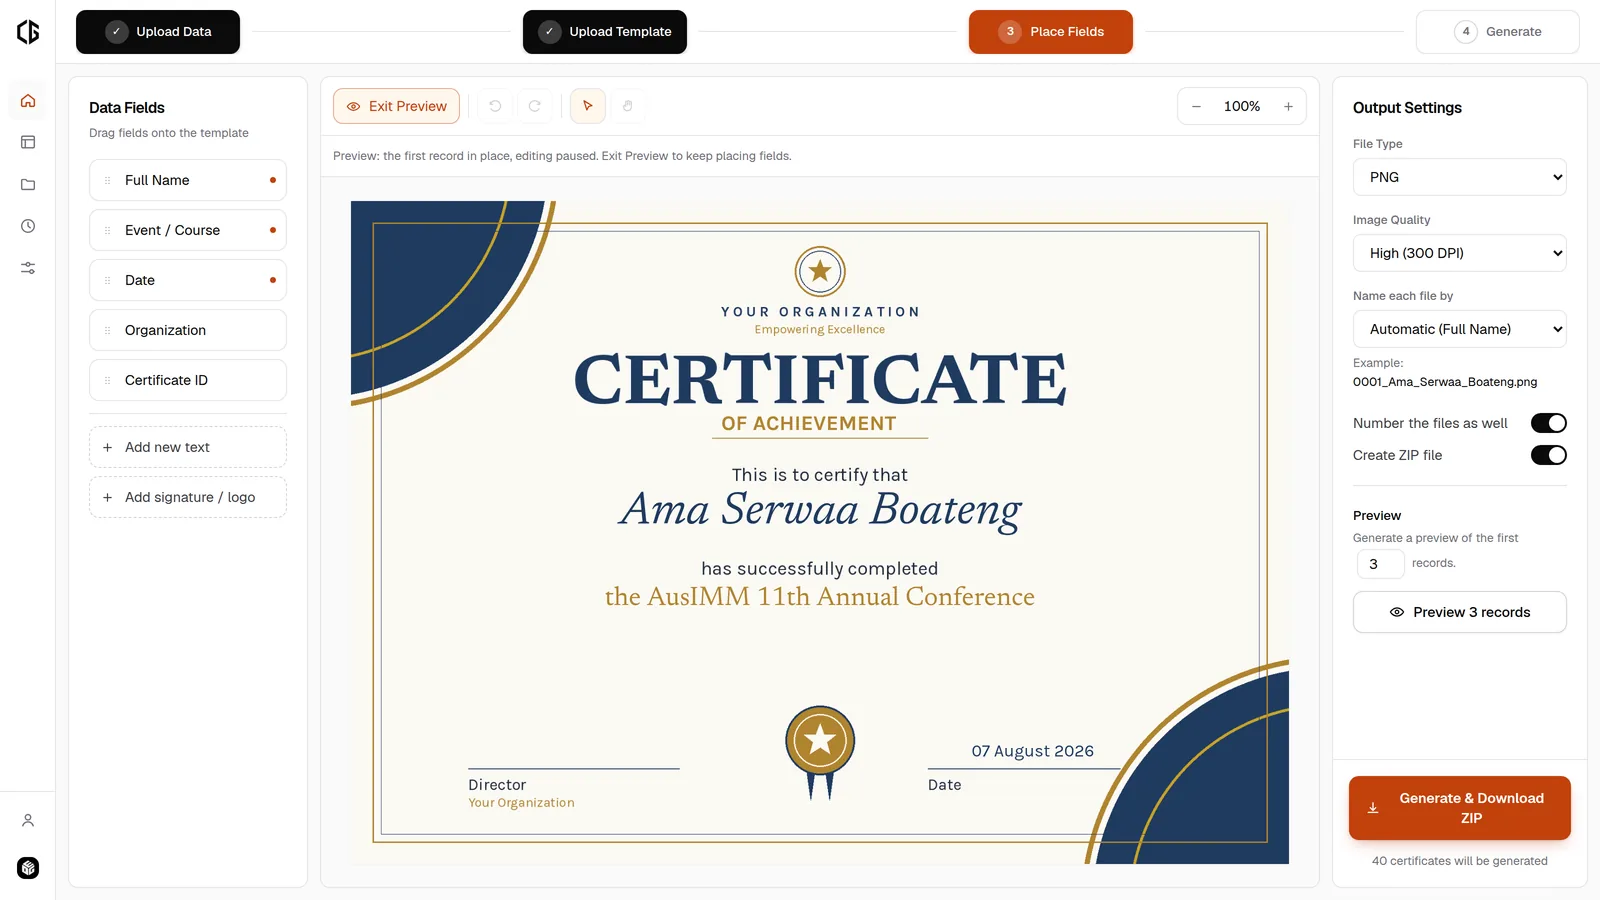
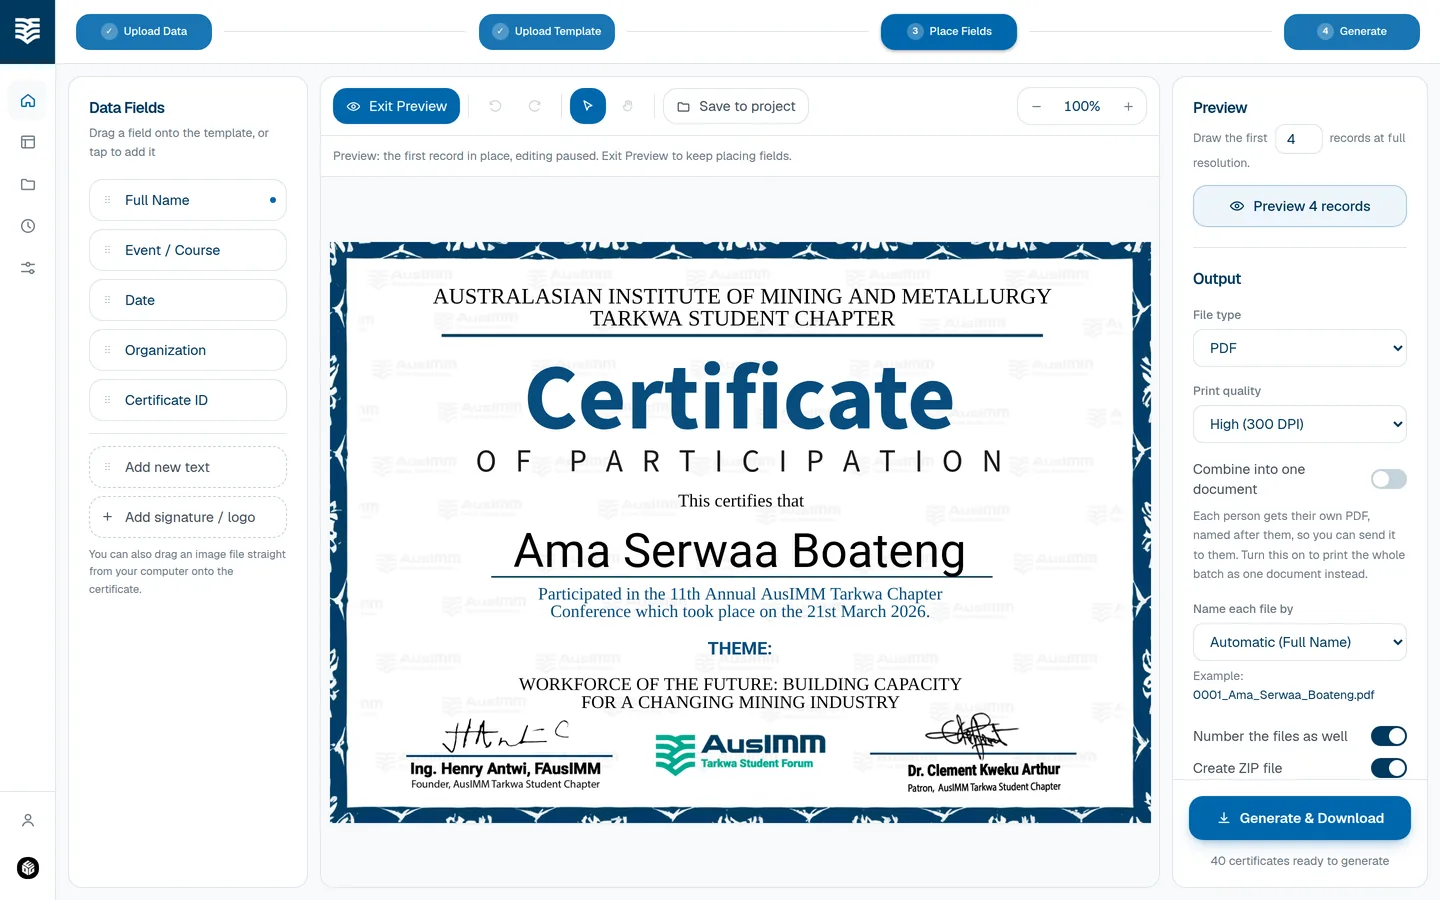
Projects: CertiBatch becomes the AusIMM Certificate Studio
The project shipped a second time, as the chapter's own tool rather than a
general one, and the page had not caught up: it still showed the generic
build's screenshots and told the story as if it ended with a web app.

Content now leads with the AusIMM edition — the chapter's branding, their two
real certificate designs taken apart from the original Photoshop files so
every line is editable, a shared chapter code instead of accounts, and the
half-hour idle lock that a shared computer needs. Two new sections cover that
and the output work: PDF is the default because on a 500-person batch it is
both the fastest to produce and the smallest to send, 1.9 minutes and 300 MB
against 7.2 minutes and 707 MB for PNG, with the whole batch as one printable
document at 6 seconds and 1 MB.

All four screenshots retaken from the chapter build.

Both links are kept and labelled: the chapter's studio as the real deliverable,
noted as opening with the chapter's code, and the open version so a reader can
actually use one. The page stays at /case-studies/certibatch so nothing already
shared breaks.

Rendered and checked in a browser: build.js exits 0, every image loads, no
failed requests.

Claude-Session: https://claude.ai/code/session_01TRv75KVh2YPb1V3Kq5Uc7z

diff --git a/case-studies/certibatch.html b/case-studies/certibatch.html
@@ -3,8 +3,8 @@
 <head>
   <meta charset="UTF-8" />
   <meta name="viewport" content="width=device-width, initial-scale=1.0" />
-  <title>CertiBatch, Bulk Certificate Generation, Edwin Gyasi Owusu</title>
-  <meta name="description" content="CertiBatch: a web app that turns a spreadsheet and a certificate design into hundreds of personalised, print-ready certificates, built for the AusIMM Tarkwa Student Chapter." />
+  <title>AusIMM Certificate Studio, Edwin Gyasi Owusu</title>
+  <meta name="description" content="A web app that turns a spreadsheet and a certificate design into hundreds of personalised, print-ready certificates, built for and branded to the AusIMM Tarkwa Student Chapter." />
 
   <link rel="canonical" href="https://edwingyasi.me/case-studies/certibatch" />
 
@@ -15,15 +15,15 @@
   <meta property="og:type" content="article" />
   <meta property="og:site_name" content="Edwin Gyasi Owusu" />
   <meta property="og:url" content="https://edwingyasi.me/case-studies/certibatch" />
-  <meta property="og:title" content="CertiBatch, Bulk Certificate Generation" />
-  <meta property="og:description" content="CertiBatch: a web app that turns a spreadsheet and a certificate design into hundreds of personalised, print-ready certificates, built for the AusIMM Tarkwa Student Chapter." />
+  <meta property="og:title" content="AusIMM Certificate Studio" />
+  <meta property="og:description" content="A web app that turns a spreadsheet and a certificate design into hundreds of personalised, print-ready certificates, built for and branded to the AusIMM Tarkwa Student Chapter." />
   <meta property="og:image" content="https://edwingyasi.me/images/og/certibatch.jpg" />
   <meta property="og:image:width" content="1200" />
   <meta property="og:image:height" content="630" />
-  <meta property="og:image:alt" content="CertiBatch, Bulk Certificate Generation" />
+  <meta property="og:image:alt" content="AusIMM Certificate Studio" />
   <meta name="twitter:card" content="summary_large_image" />
-  <meta name="twitter:title" content="CertiBatch, Bulk Certificate Generation" />
-  <meta name="twitter:description" content="CertiBatch: a web app that turns a spreadsheet and a certificate design into hundreds of personalised, print-ready certificates, built for the AusIMM Tarkwa Student Chapter." />
+  <meta name="twitter:title" content="AusIMM Certificate Studio" />
+  <meta name="twitter:description" content="A web app that turns a spreadsheet and a certificate design into hundreds of personalised, print-ready certificates, built for and branded to the AusIMM Tarkwa Student Chapter." />
   <meta name="twitter:image" content="https://edwingyasi.me/images/og/certibatch.jpg" />
 
   <link rel="preload" href="/fonts/clash-display-var.woff2" as="font" type="font/woff2" crossorigin />
@@ -143,79 +143,96 @@
     <div class="wrap">
       <div class="cs-header">
         <div class="cs-cat"><span class="pin"></span> Web Applications &amp; Automation</div>
-        <h1 class="cs-title">CertiBatch, Bulk Certificate Generation for Events</h1>
-        <p class="cs-lede">Built during my tenure as Public Relations Officer of the Australasian Institute of Mining and Metallurgy (AusIMM) Tarkwa Student Chapter. Our 11th Annual Conference needed over 500 personalised certificates, so I wrote a Python tool to produce them, then rebuilt that tool as a web app so the next PRO never has to write code at all.</p>
+        <h1 class="cs-title">AusIMM Certificate Studio, Bulk Certificate Generation for Events</h1>
+        <p class="cs-lede">Built during my tenure as Public Relations Officer of the Australasian Institute of Mining and Metallurgy (AusIMM) Tarkwa Student Chapter. Our 11th Annual Conference needed over 500 personalised certificates, so I wrote a Python tool to produce them, then rebuilt it as a web app carrying the chapter's own branding and certificate designs, so the next PRO never has to write code at all.</p>
       </div>
 
       <div class="cs-meta">
         <div class="cell"><div class="k">Role</div><div class="v">Architect, Designer &amp; Developer (AI‑assisted)</div></div>
         <div class="cell"><div class="k">Context</div><div class="v">AusIMM Tarkwa Student Chapter, PRO</div></div>
-        <div class="cell"><div class="k">Scale</div><div class="v">500+ certificates per event</div></div>
+        <div class="cell"><div class="k">Scale</div><div class="v">500 certificates in under 2 minutes</div></div>
         <div class="cell"><div class="k">Status</div><div class="v">Live, in use</div></div>
       </div>
 
       <div class="cs-hero-img">
-        <img src="/images/certibatch/hero.webp" alt="CertiBatch field placement screen, showing a certificate previewed with a real student's name and event" loading="lazy" />
+        <img src="/images/certibatch/hero.webp" alt="The chapter's certificate studio, previewing a participation certificate with a real attendee's name in place" loading="lazy" />
       </div>
 
       <div class="cs-body">
-        <p>Live at <a href="https://bulk-cert-generator.vercel.app" target="_blank" rel="noopener">bulk-cert-generator.vercel.app</a>. Source on <a href="https://github.com/Eddywin-bit/Bulk-Cert-Generator-" target="_blank" rel="noopener">GitHub</a>.</p>
+        <p>Live at <a href="https://bulk-cert-generator-7lt8.vercel.app" target="_blank" rel="noopener">the chapter's studio</a>, which opens with the chapter's code. An open version anyone can try, with sample data and designs built in, is at <a href="https://bulk-cert-generator.vercel.app" target="_blank" rel="noopener">bulk-cert-generator.vercel.app</a>. Source on <a href="https://github.com/Eddywin-bit/Bulk-Cert-Generator-" target="_blank" rel="noopener">GitHub</a>.</p>
         <h2>The problem</h2>
         <p>Every conference ends the same way. The talks finish, the photographs are taken, and someone has to produce a certificate for every person who attended. For the AusIMM Tarkwa Student Chapter's 11th Annual Conference, that was <strong>over 500 certificates</strong>, each carrying a different name, and all of them needed before students went home.</p>
         <p>Doing that by hand is not a small job, it is an impossible one. Editing a design file 500 times introduces mistakes into exactly the artefact nobody should get wrong: a person's name on a document they will keep.</p>
         <p>So I wrote a Python script. It read a spreadsheet, drew each name onto the certificate design, and wrote out the files. It worked, and the conference had its certificates.</p>
-        <p>To be clear about how it was built: the Python was written with AI coding tools rather than by hand. I can read and adapt code, but I am not a developer by training. That changed how fast the code appeared, not what had to be decided, and the deciding is what the rest of this page is about.</p>
+        <p>To be clear about how it was built: the code was written with AI coding tools rather than by hand. I can read and adapt code, but I am not a developer by training. That changed how fast the code appeared, not what had to be decided, and the deciding is what the rest of this page is about.</p>
         <div class="callout">
           <div class="lbl">The part that actually needed solving</div>
           <p>The script was the easy half. The hard half is that the script only works if the person holding it can write Python, and the chapter elects a new PRO every year.</p>
         </div>
         <h2>Why a script was the wrong deliverable</h2>
         <p>A one-off script solves one event. The next PRO inherits a file they cannot read, for a design that has changed, with column headings that no longer match. In practice they do not inherit a tool at all, they inherit the same problem and a reason to feel bad about it.</p>
-        <p>So I rebuilt it as <strong>CertiBatch</strong>: the same job, delivered as something an organiser can use without knowing what a script is.</p>
+        <p>So I rebuilt it as a web app: the same job, delivered as something an organiser can use without knowing what a script is. Then I built a second edition of it that belongs to the chapter rather than to me.</p>
         <h2>What it does</h2>
         <p>Four steps, and nothing in between that needs explaining.</p>
         <ul>
           <li><strong>Upload data.</strong> A CSV or Excel file, one row per certificate. Column headings are matched loosely, so a heading typed Full Name, full name or FULL_NAME all resolves to the same field, and the spreadsheet is shown back as a preview so mistakes surface before 500 files are made.</li>
-          <li><strong>Upload template.</strong> Any PNG or JPG design, or one of the built-in certificate layouts.</li>
+          <li><strong>Pick a design.</strong> One of the chapter's own certificates, or any PNG or JPG artwork for a one-off event.</li>
           <li><strong>Place fields.</strong> Drag each column onto the artwork, set the typeface, size and colour, and preview it with a real record so you see the finished certificate rather than a placeholder.</li>
-          <li><strong>Generate.</strong> Every certificate is rendered at print resolution and packaged as a ZIP, each file named after the person on it.</li>
+          <li><strong>Generate.</strong> Every certificate is rendered at print resolution and arrives named after the person on it.</li>
         </ul>
         <div class="shots">
           <figure>
-            <div class="frame"><img src="/images/certibatch/screen-data.webp" alt="CertiBatch data upload, showing the spreadsheet preview in a cell grid" loading="lazy" /></div>
-            <figcaption>Uploaded data shown back before anything is generated</figcaption>
+            <div class="frame"><img src="/images/certibatch/screen-templates.webp" alt="The chapter's certificate designs in the template gallery" loading="lazy" /></div>
+            <figcaption>The chapter's own certificates, ready to use</figcaption>
           </figure>
           <figure>
-            <div class="frame"><img src="/images/certibatch/screen-templates.webp" alt="CertiBatch template gallery with ready-made certificate designs" loading="lazy" /></div>
-            <figcaption>Built-in designs, or bring your own artwork</figcaption>
+            <div class="frame"><img src="/images/certibatch/screen-data.webp" alt="Uploaded spreadsheet shown back as a grid before anything is generated" loading="lazy" /></div>
+            <figcaption>The data shown back before 500 files are made</figcaption>
           </figure>
           <figure>
-            <div class="frame"><img src="/images/certibatch/screen-place.webp" alt="CertiBatch field placement screen with draggable data fields on the certificate" loading="lazy" /></div>
+            <div class="frame"><img src="/images/certibatch/screen-place.webp" alt="Field placement screen with draggable data fields on the chapter certificate" loading="lazy" /></div>
             <figcaption>Placing fields once, for the whole batch</figcaption>
           </figure>
         </div>
+        <h2>Making it the chapter's own</h2>
+        <p>The general tool works for anybody, which is precisely why it does not feel like it belongs to the chapter. The second edition carries their colours, their logo and their certificates, and three decisions came out of that.</p>
+        <p><strong>The chapter's real certificates are in it, and they are editable.</strong> Both designs were taken apart from the original Photoshop files, so every line of text is a field with the same typeface, size and letter-spacing the designer chose, and only the signatures and the frame are baked into the artwork. That matters for the line nobody thinks about until the year turns: the conference theme. It is a field, so next year's PRO sets this year's theme instead of asking a designer for a new file.</p>
+        <p><strong>There is no sign-up, only a chapter code.</strong> Accounts would mean holding personal data, and a chapter that elects new officers every year does not want an account tied to whoever set it up. One code opens the tool, and it is handed to the office rather than to a person. The code is never compared in the browser, because a string checked in front-end code ships inside the page where anyone can read it, and a lock like that only looks like a lock. It is verified server-side, so nothing checkable ever reaches the client.</p>
+        <p><strong>It locks itself after half an hour unused.</strong> The site carries the chapter's logo, so a tab left open on a shared computer is enough for a stranger to produce something that looks official. A batch still running counts as the tool being in use, so nobody is locked out of a download they are waiting for.</p>
         <h2>The engineering problem underneath</h2>
         <p>The interesting constraint is that the browser and the server have to agree about a certificate neither of them can see at the same size.</p>
         <p>The editor shows the design scaled down to fit a laptop screen. The server renders it at full print resolution, often several thousand pixels across. If field positions were stored as screen pixels, every certificate would print with the text in the wrong place.</p>
-        <p>So <strong>positions are stored as fractions of the artwork</strong>, from 0 to 1, and never as pixels. A name placed halfway across and just under halfway down sits at the same point on a 900-pixel preview and a 3500-pixel print file. The same principle governs type size, which is stored as a fraction of the artwork's height. The eight bundled typefaces are loaded twice, once as web fonts for the canvas and once as font files for the renderer, so that the face you place with is the face that prints.</p>
+        <p>So <strong>positions are stored as fractions of the artwork</strong>, from 0 to 1, and never as pixels. A name placed halfway across and just under halfway down sits at the same point on a 900-pixel preview and a 3500-pixel print file. The same principle governs type size, which is stored as a fraction of the artwork's height. The typefaces are loaded twice, once as web fonts for the canvas and once as font files for the renderer, so that the face you place with is the face that prints.</p>
         <p>The second constraint is time. Five hundred certificates take minutes to render, and every proxy between a browser and a server will drop a request long before that. Generation therefore does not happen inside the request: submitting a batch returns immediately, the work runs on a background worker, and the browser polls for progress and then downloads. That boundary is a single interface, so the thread pool behind it can become a proper job queue without touching a route.</p>
+        <h2>Choosing an output that fits the job</h2>
+        <p>A certificate is a thing you print, or email to one person. That makes PDF the right default, but only if a PDF batch is actually cheap, and the obvious implementation is not: saving each rendered certificate as a page embeds the artwork once per certificate, and 500 of those is a download nobody can receive.</p>
+        <p>Two things fix it. The artwork is prepared <strong>once for the whole batch</strong> rather than once per certificate, and it is embedded as JPEG, so the PDF library copies those bytes in instead of re-compressing pixels. Only the background is ever compressed; every name is drawn over it as vector type, which is why the text stays sharp at any zoom and can be selected and searched.</p>
+        <p>Measured on the chapter's 500 participation certificates at 300 DPI:</p>
+        <ul>
+          <li><strong>One PDF per person</strong>, named after them: 1.9 minutes, 300 MB</li>
+          <li><strong>The whole batch as one document</strong>, a page each, for printing: 6 seconds, 1 MB</li>
+          <li>The same batch as PNG images: 7.2 minutes, 707 MB</li>
+        </ul>
+        <p>So the default output is both the fastest to produce and the smallest to send, which is not a trade-off I expected to find.</p>
         <h2>Designing for people, not for me</h2>
         <p>The app is aimed at an organiser the week before an event, so several decisions went against what would have been easier to build.</p>
         <ul>
           <li><strong>Every step is reachable from the start.</strong> Nothing is locked behind an upload. Each screen is a real page that renders its full layout with nothing loaded and explains inline what it still needs, because being able to look around before committing is how people decide whether to trust a tool.</li>
           <li><strong>No controls that do nothing.</strong> Anything shown is either wired up or clearly marked as unavailable.</li>
           <li><strong>Errors are written for the person reading them</strong>, who is an event organiser and not a developer, so they say what to do rather than what failed.</li>
-          <li><strong>The owner can add certificate designs from inside the app</strong>, which commits them for the whole site. That was the last piece of the original problem: the tool cannot depend on its author staying available.</li>
+          <li><strong>Big artwork is never refused.</strong> A design tool exporting a certificate at 78 megapixels is normal, and the person uploading it has no idea what a megapixel is. Oversized artwork is shrunk in the browser before upload, and again on the server, rather than being handed back an error that is really a dead end.</li>
+          <li><strong>The chapter can add its own designs from inside the app</strong>, which commits them for the whole site, with a downloadable folder as the fallback for the day a credential expires. That was the last piece of the original problem: the tool cannot depend on its author staying available.</li>
         </ul>
         <h2>Privacy as an architectural constraint</h2>
         <p>A list of students is a list of real people who did not choose to be in my database, so the design goal was that <strong>there should be nothing to leak</strong>.</p>
-        <p>There are no accounts and no user database. A job is a random identifier and a temporary folder, with nothing recorded that ties a name to a person or a session. Everything auto-deletes: thirty minutes after the ZIP is downloaded, or within an hour if it never is. The grace window exists so a dropped download can be retried rather than forcing a re-run of the whole batch.</p>
+        <p>There are no accounts and no user database. A job is a random identifier and a temporary folder, with nothing recorded that ties a name to a person or a session. Everything auto-deletes: thirty minutes after the download, or within an hour if it never happens. The grace window exists so a dropped download can be retried rather than forcing a re-run of the whole batch.</p>
         <p>The container that runs it mounts job storage in memory rather than on disk, so the retention promise is enforced by the platform and not only by code.</p>
         <h2>Tools &amp; methods</h2>
         <div class="tools">
           <span>Python</span>
           <span>FastAPI</span>
           <span>Pillow</span>
+          <span>ReportLab</span>
           <span>pandas</span>
           <span>React</span>
           <span>TypeScript</span>
@@ -227,9 +244,8 @@
           <span>AI-assisted development</span>
         </div>
         <h2>Where it stands</h2>
-        <p>CertiBatch is live and in use, with the four-step flow, a gallery of ready-made designs, background generation and ZIP delivery all working end to end. It is covered by an automated test suite that includes a full 500-row run, because the failure I care about is the one that appears only at scale, the night before an event.</p>
-        <p>What it replaced was a script that solved one conference. What it is now is a tool the chapter keeps.</p>
-        <p>Try it at <a href="https://bulk-cert-generator.vercel.app" target="_blank" rel="noopener">bulk-cert-generator.vercel.app</a>, sample data and designs are built in, so it runs without uploading anything.</p>
+        <p>The chapter's edition is live and in use, carrying their branding and both of their certificate designs, with PDF, JPG and PNG output, background generation and packaged delivery all working end to end. It is covered by an automated test suite of 117 tests that includes a full 500-row run, because the failure I care about is the one that appears only at scale, the night before an event.</p>
+        <p>What it replaced was a script that solved one conference. What it is now is a tool the chapter keeps, and hands on.</p>
       </div>
 
       <div class="cs-foot">

diff --git a/index.html b/index.html
@@ -1852,15 +1852,15 @@
 
           <a class="project-card reveal" data-d="1" href="case-studies/certibatch">
             <div class="project-visual">
-              <img src="images/certibatch/hero.webp" alt="CertiBatch field placement screen with a certificate previewed using a real student record" loading="lazy" />
+              <img src="images/certibatch/hero.webp" alt="AusIMM Tarkwa Student Chapter certificate studio: a participation certificate previewed with a real attendee's name" loading="lazy" />
             </div>
             <div class="project-cat"><span class="pin"></span> Web Applications &amp; Automation</div>
-            <h3 class="project-title">CertiBatch — Bulk Certificate Generation</h3>
-            <p class="project-desc">Built during my tenure as PRO of the Australasian Institute of Mining and Metallurgy (AusIMM) Tarkwa Student Chapter, for producing 500+ certificates for our 11th Annual Conference. A spreadsheet and a design go in, hundreds of print-ready personalised certificates come out, with no scripting for the next PRO.</p>
+            <h3 class="project-title">AusIMM Certificate Studio — Bulk Certificate Generation</h3>
+            <p class="project-desc">Built during my tenure as PRO of the Australasian Institute of Mining and Metallurgy (AusIMM) Tarkwa Student Chapter, which needed 500+ certificates for its 11th Annual Conference. A spreadsheet and a design go in; every attendee's certificate comes out, print-ready and named after them, in under two minutes. Carries the chapter's own branding and certificate designs, and is handed to each incoming PRO with no scripting required.</p>
             <div class="project-footer">
               <div class="project-tools">
                 <span>Python + FastAPI</span>
-                <span>Pillow</span>
+                <span>Pillow + ReportLab</span>
                 <span>React + TypeScript</span>
                 <span>Docker</span>
               </div>
